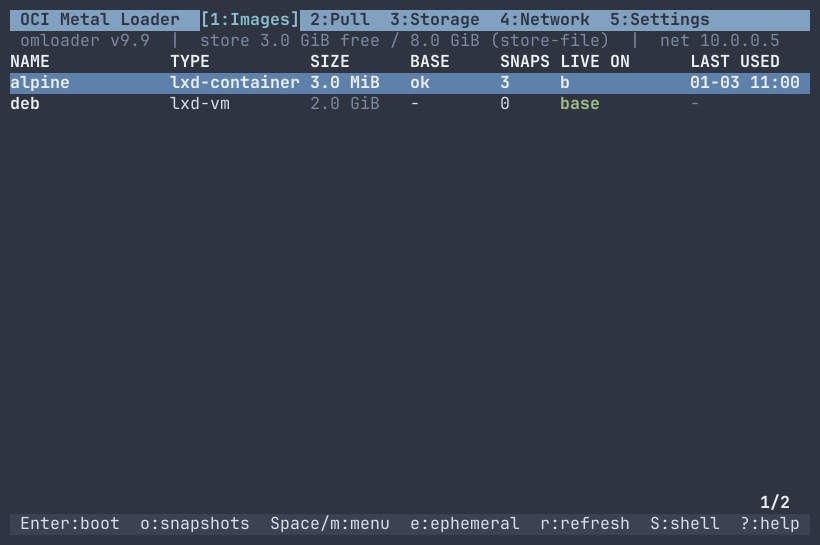
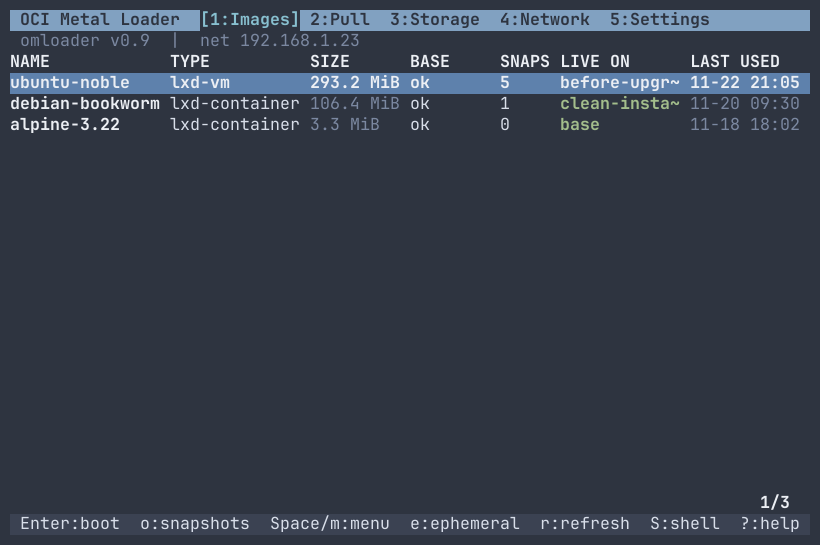
docs: screenshots use real linuxcontainers catalog data

diff --git a/internal/tui/shots_test.go b/internal/tui/shots_test.go
@@ -1,11 +1,69 @@
 package tui
 
 import (
+	"context"
 	"os"
 	"path/filepath"
+	"strconv"
+	"strings"
 	"testing"
 	"time"
 )
+
+// shotSvc is the sample service of the simulated screenshots: catalog rows are real `omloader images list` output
+// (testdata/real_catalog.txt), the installed images are ones pulled from it.
+type shotSvc struct {
+	*fakeSvc
+	cat []CatalogItem
+}
+
+func loadRealCatalog(t *testing.T) []CatalogItem {
+	b, err := os.ReadFile("testdata/real_catalog.txt")
+	if err != nil {
+		t.Fatal(err)
+	}
+	var out []CatalogItem
+	for _, ln := range strings.Split(string(b), "\n") {
+		f := strings.Fields(ln)
+		if len(f) != 5 || strings.HasPrefix(ln, "#") {
+			continue
+		}
+		p := strings.Split(strings.TrimPrefix(f[0], "lxc:"), "/")
+		sz, _ := strconv.ParseFloat(f[3], 64)
+		if f[4] == "GiB" {
+			sz *= 1 << 30
+		} else {
+			sz *= 1 << 20
+		}
+		out = append(out, CatalogItem{OS: p[0], Release: p[1], Variant: p[2], Arch: "amd64", Kind: f[1], Version: f[2], Size: int64(sz)})
+	}
+	return out
+}
+
+func (s shotSvc) Catalog(ctx context.Context, src string, f Filter) ([]CatalogItem, error) {
+	return s.cat, nil
+}
+func (s shotSvc) Images() ([]ImageInfo, error) {
+	return []ImageInfo{
+		{Name: "ubuntu-noble", Type: "lxd-vm", Mode: "dm-snapshot", Size: 293<<20 + 2<<17, BaseOK: "ok", Snaps: 5, Current: "before-upgrade", LastUsed: time.Date(2026, 11, 22, 21, 5, 0, 0, time.UTC)},
+		{Name: "debian-bookworm", Type: "lxd-container", Mode: "overlayfs", Size: 106<<20 + 410<<10, BaseOK: "ok", Snaps: 1, Current: "clean-install", LastUsed: time.Date(2026, 11, 20, 9, 30, 0, 0, time.UTC)},
+		{Name: "alpine-3.22", Type: "lxd-container", Mode: "overlayfs", Size: 3<<20 + 307<<10, BaseOK: "ok", LastUsed: time.Date(2026, 11, 18, 18, 2, 0, 0, time.UTC)},
+	}, nil
+}
+func (s shotSvc) Sources() ([]SourceInfo, error) {
+	return []SourceInfo{
+		{Name: "lxc-images", Type: "simplestreams", URL: "https://images.linuxcontainers.org", Usable: true, Mirror: "official", MirrorIDs: []string{"official", "auto", "tuna", "nju", "cernet"}},
+		{Name: "ubuntu-releases", Type: "simplestreams", URL: "https://cloud-images.ubuntu.com/releases", Usable: true, Mirror: "official", MirrorIDs: []string{"official", "auto", "nju"}},
+		{Name: "ubuntu-daily", Type: "simplestreams", URL: "https://cloud-images.ubuntu.com/daily", Usable: true, Mirror: "official", MirrorIDs: []string{"official", "auto", "tuna", "nju"}},
+		{Name: "dockerhub", Type: "oci-registry", URL: "registry-1.docker.io", Usable: true, Mirror: "official", MirrorIDs: []string{"official", "auto", "1ms"}},
+	}, nil
+}
+func (s shotSvc) Store() (StoreStatus, error) {
+	return StoreStatus{Kind: "store-file", Path: "/mnt/ventoy/omloader/store.img", HostFS: "exfat", Size: 40 << 30, Alloc: 40 << 30, Total: 39 << 30, Free: 34 << 30, FreePct: 87, MinFreePct: 10, State: "clean"}, nil
+}
+func (s shotSvc) Header() HeaderInfo {
+	return HeaderInfo{Version: "v0.9", StoreKind: "store-file", StoreFree: 34 << 30, StoreTotal: 39 << 30, ImagesUsed: 3 << 29, Net: "192.168.1.23"}
+}
 
 // TestSimShots dumps ANSI screens when OML_SHOTS_DIR is set (simulated screenshots; not part of normal runs).
 func TestSimShots(t *testing.T) {
@@ -14,21 +72,22 @@ func TestSimShots(t *testing.T) {
 		t.Skip("OML_SHOTS_DIR not set")
 	}
 	th := Theme{Color: true, Depth: 24, Round: true}
+	cat := loadRealCatalog(t)
 	mk := func(w, h int) (*Model, *fakeSvc) {
 		f := newFake()
 		f.trees = map[string]*TreeInfo{
-			"ubuntu-24.04": {Image: "ubuntu-24.04", Mode: "dm-snapshot", Type: "lxd-vm", Current: "n6", Head: "n3", Nodes: []NodeInfo{
-				{Name: "n1", Label: "clean-install", Created: "2026-03-01T10:00:00Z", Note: "fresh from lxc-images", Tags: []string{"golden"}, Alloc: 900 << 20},
-				{Name: "n2", Label: "dev-tools", Parent: "n1", Created: "2026-03-02T10:00:00Z", Alloc: 1200 << 20},
-				{Name: "n3", Label: "before-upgrade", Parent: "n2", Created: "2026-03-05T09:00:00Z", Note: "kernel 6.8", Alloc: 300 << 20},
-				{Name: "n4", Label: "upgrade-24.10", Parent: "n3", Created: "2026-03-06T09:00:00Z", Alloc: 2 << 30},
-				{Name: "n5", Label: "docker-test", Parent: "n2", Created: "2026-03-07T09:00:00Z", Tags: []string{"wip"}, Alloc: 700 << 20},
-				{Name: "n6", Parent: "n3", Created: "2026-03-08T12:00:00Z", Live: true, Alloc: 80 << 20},
+			"ubuntu-noble": {Image: "ubuntu-noble", Mode: "dm-snapshot", Type: "lxd-vm", Current: "n6", Head: "n3", Nodes: []NodeInfo{
+				{Name: "n1", Label: "clean-install", Created: "2026-11-01T10:00:00Z", Note: "fresh from lxc-images", Tags: []string{"golden"}, Alloc: 900 << 20},
+				{Name: "n2", Label: "dev-tools", Parent: "n1", Created: "2026-11-02T10:00:00Z", Alloc: 1200 << 20},
+				{Name: "n3", Label: "before-upgrade", Parent: "n2", Created: "2026-11-05T09:00:00Z", Note: "kernel 6.8", Alloc: 300 << 20},
+				{Name: "n4", Label: "upgrade-24.10", Parent: "n3", Created: "2026-11-06T09:00:00Z", Alloc: 2 << 30},
+				{Name: "n5", Label: "docker-test", Parent: "n2", Created: "2026-11-07T09:00:00Z", Tags: []string{"wip"}, Alloc: 700 << 20},
+				{Name: "n6", Parent: "n3", Created: "2026-11-08T12:00:00Z", Live: true, Alloc: 80 << 20},
 			}},
-			"debian-12": {Image: "debian-12", Mode: "overlayfs", Type: "lxd-container"},
-			"alpine":    {Image: "alpine", Mode: "overlayfs", Type: "lxd-container"},
+			"debian-bookworm": {Image: "debian-bookworm", Mode: "overlayfs", Type: "lxd-container"},
+			"alpine-3.22":     {Image: "alpine-3.22", Mode: "overlayfs", Type: "lxd-container"},
 		}
-		m := New(f, th)
+		m := New(shotSvc{f, cat}, th)
 		m.Resize(w, h)
 		m.Init()
 		return m, f
@@ -50,7 +109,7 @@ func TestSimShots(t *testing.T) {
 		}
 		m, _ := mk(sz[0], sz[1])
 		dump(m, "1-images-"+sfx)
-		m.OpenImage("ubuntu-24.04")
+		m.OpenImage("ubuntu-noble")
 		dump(m, "2-tree-"+sfx)
 		m.Update(N("down"))
 		m.Update(N("down"))
@@ -60,6 +119,11 @@ func TestSimShots(t *testing.T) {
 		m.Update(R('2'))
 		dump(m, "4-pull-"+sfx)
 		m.Update(N("enter"))
+		if m.op != nil {
+			m.op.Wait()
+			m.Tick()
+		}
+		keys(m, "ubuntu noble")
 		dump(m, "4b-catalog-"+sfx)
 		m, _ = mk(sz[0], sz[1])
 		m.Update(R('3'))
